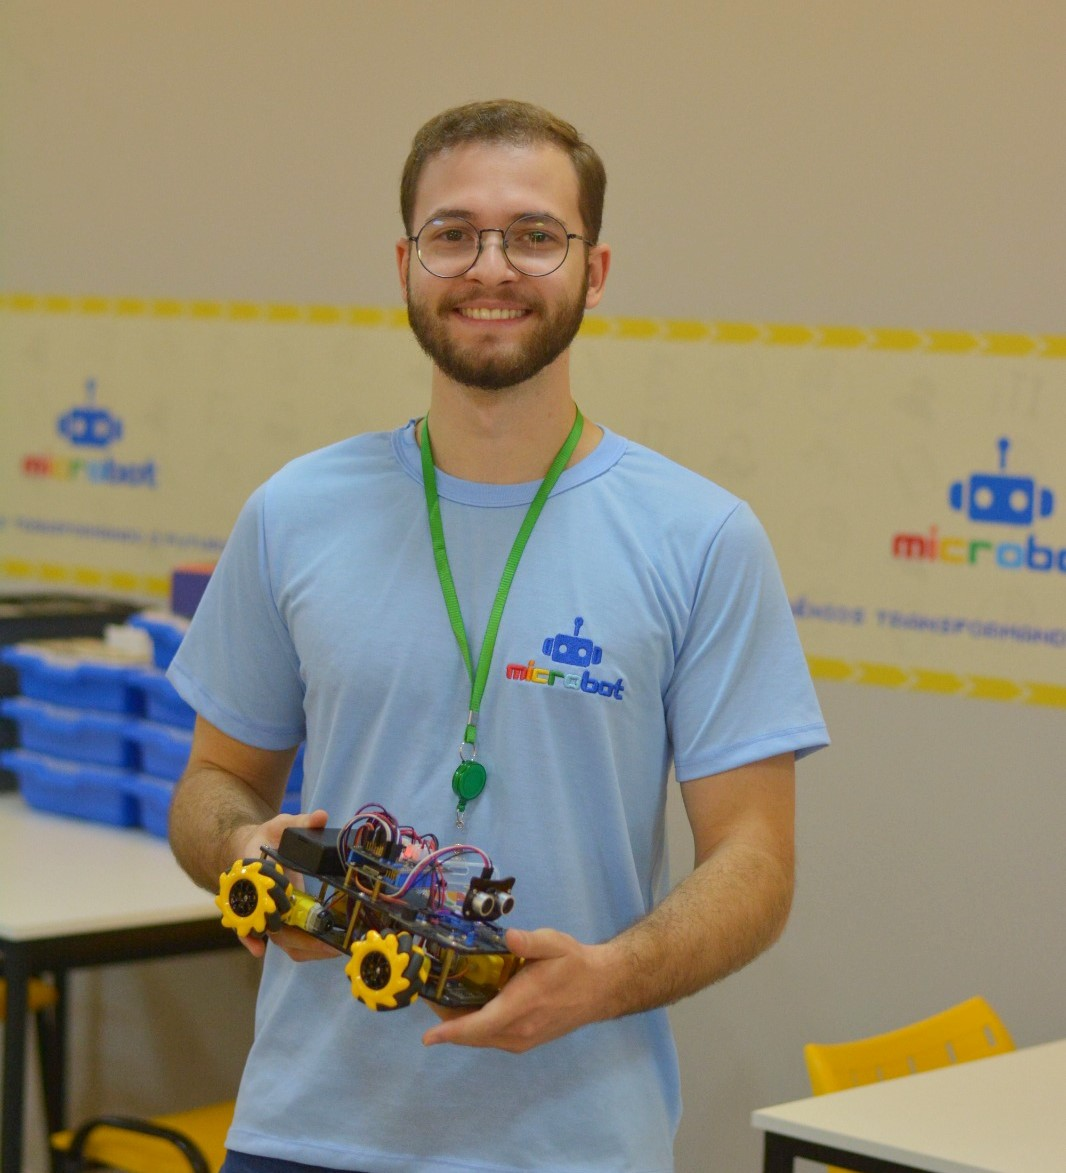
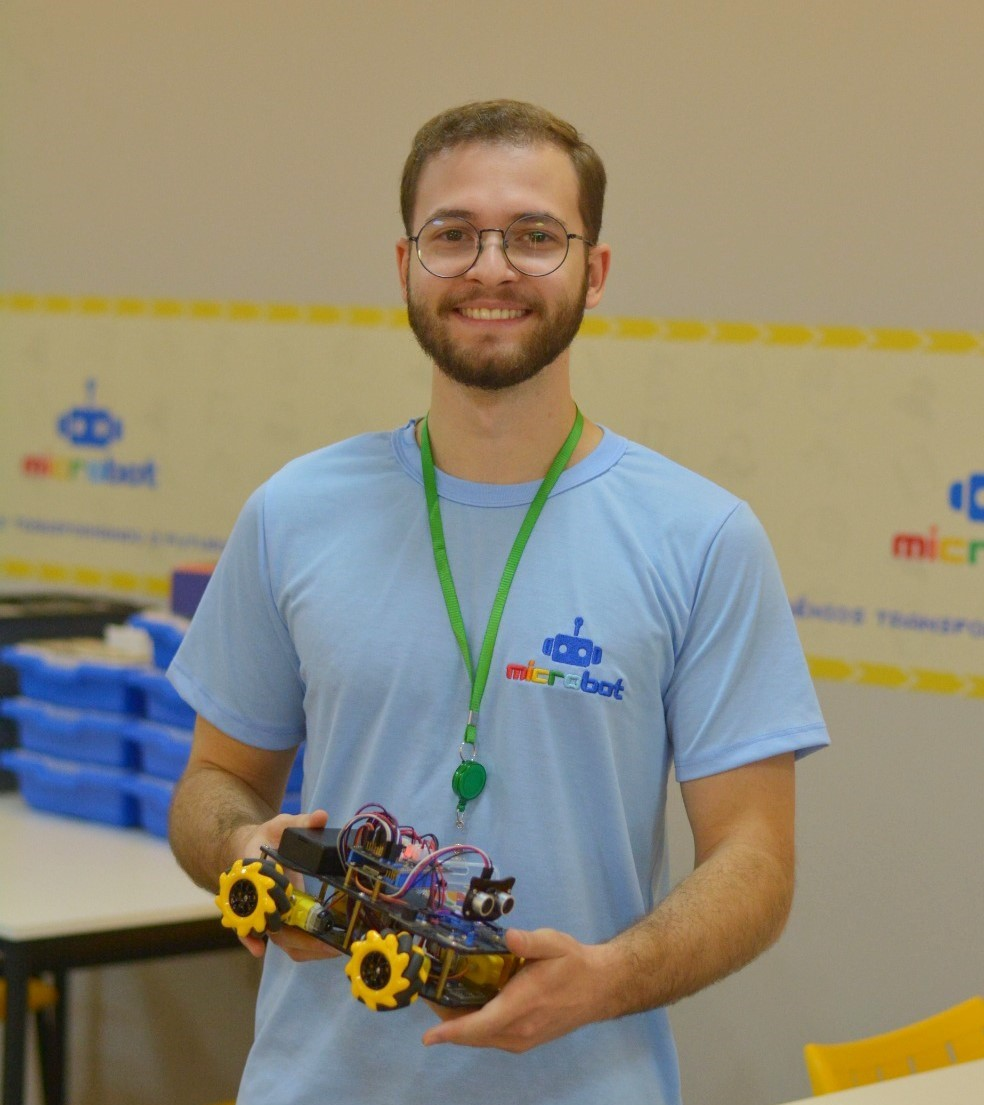
feat: novos estilos adcionados às seções.

diff --git a/src/components/About/About.css b/src/components/About/About.css
@@ -6,87 +6,104 @@
     align-items: center;
     flex-direction: row;
     justify-content: center;
-    gap: 100px;
+    gap: 10%;
+    padding: 0 0 40px 0;
 }
 
 .About .Card-Image{
-    width: 50%;
+    width: 40%;
     height: 100%;
     display: flex;
     justify-content: center;
 }
 
 .About img{
-    width: 70%;
+    width: 90%;
     border-radius: 50%;
     box-shadow: 10px 10px 10px rgba(0, 0, 0, 0.2);
     /* border: 4px solid #DEAB3C; */
+    aspect-ratio: 1/1;
+    object-fit: cover
 }
 
 .About .Card-Content{
-    width: 50%;
-    max-width: 50%;
+    width: 40%;
+    max-width: 40%;
     display: flex;
     flex-direction: column;
     align-items: center;
+    margin-top: 50px;
+    
 }
 
+
+
 .About .Card-Content .Card-Header h1{
-    font-size: 3rem;
+    font-size: 3.5rem;
     font-weight: bold;
-    text-align: center;
     color: #37323E;
     border-bottom: 4px solid #DEAB3C;
 }
 
 
 .About .Card-Content .Sobre{
-    width: 35vw;
+    width: 100%;
     display: flex;
     flex-direction: column;
-    background-color: #ffffffc7;
     position: relative;
-    box-shadow: 0 0 10px rgba(0, 0, 0, 0.1);
 }
 
+.About .Card-Content .Sobre::before{
+    content: "";
+    background-color: #37323E;
+    width: 4px;
+    height: 100%;
+    position: absolute;
+    left: -15px;
+}
 
 .About .Sobre p{
     margin: 0;
-    padding: 10px 20px;
+   
     font-size: 1.2rem;
     text-align: justify;
-    text-indent: 30px;
+    white-space: pre-line;
 }
 
 .About .Experiencias{
     width: 100%;
     display: flex;
-    align-items: center;
     flex-direction: column;
 }
+
 .About .Experiencias h3{
-    font-size: 2rem;
+    font-size: 2.5rem;
     color: #37323E;
+    text-align: center;
     padding: 10px 00;
 }
 
-
 .About .Experiencias .Exp-Cards{
+    width: 30%;
     display: flex;
     gap: 10%;
     position: relative;
+    flex-direction: column;
 }
 
 .About .Experiencias .Exp-Cards::before{
     content: "";
     background-color: #37323E;
-    width: 3px;
+    width: 4px;
     height: 100%;
     position: absolute;
+    left: -15px;
+    top: 1px;
 }
 
 .About .Experiencias .Exp-Content{
     width: 100%;
+    margin-bottom: 10px;
     display: flex;
     flex-direction: column;
     gap: 20px;
@@ -97,48 +114,99 @@
     margin: 0; 
 }
 
+.About .Experiencias .Exp-Content p{
+    font-size: 1.2rem;
+    color: #37323E;
+}
+
 .About .Experiencias .Exp-Content h4{
-    font-size: 1.5rem;
+    font-size: 1.8rem;
     color: #37323E;
 }
 
 .About .Experiencias .Exp-Content::before{
+    content: "";
     background-color: #37323E;
-    width: 4px;
-    height: 100%;
+    width: 14px;
+    min-width: 14px;
+    min-height: 14px;
+    height: 14px;
+    border-radius: 50%;
+    position: absolute;
+    top: 0;
+    left: -20px;
 }
 
-.About .Formacao .For-Cards{
+.About .Formacao{
+    width: 100%;
     display: flex;
-    gap: 10%;
+    flex-direction: column;
 }
 
 .About .Formacao .For-Header{
     display: flex;
     justify-content: center;
-    
 }
-.About .Formacao h3{
-    font-size: 2rem;
+
+.About .Formacao .For-Header h3{
+    font-size: 2.5rem;
     color: #37323E;
     padding: 10px 00;
 
 }
 
+.About .Formacao .For-Cards{
+    display: flex;
+    gap: 10%;
+    position: relative;
+    flex-direction: column;
+}
+
+.About .Formacao .For-Cards::before{
+    content: "";
+    background-color: #37323E;
+    width: 4px;
+    height: 100%;
+    position: absolute;
+    left: -15px;
+    top: 1px;
+
+}
+
 .About .Formacao .For-Content{
-    width: 100%;
+    width: 90%;
     display: flex;
     gap: 20px;
     flex-direction: column;
-    padding: 10px;
-    background-color: #ffffffc7;
-    border-radius: 10px;
-    box-shadow: 0 0 10px rgba(0, 0, 0, 0.2)
+    position: relative;
+    margin-bottom: 10px;
+}
+
+.About .Formacao .For-Content::before{
+    content: "";
+    background-color: #37323E;
+    width: 14px;
+    min-width: 14px;
+    min-height: 14px;
+    height: 14px;
+    border-radius: 50%;
+    position: absolute;
+    top: 0;
+    left: -20px;
+}
+
+.About .Formacao .For-Content p, .About .Formacao .For-Content h4{
+    margin: 0;
+}
+
+.About .Formacao .For-Content h4{
+    font-size: 1.8rem;
+    color: #37323E;
 }
 
 .About .Formacao .For-Content p{
-    margin: 0;
-    text-indent: 10px;
+    font-size: 1.2rem;
+    color: #37323E;
 }
 
 
@@ -149,12 +217,25 @@
         padding: 10px;
     }
     .About .Card-Image{
-        margin-top: 90px;
+        margin-bottom: 50px;
+        margin-top: 40px;
         width: 80%;
         height: 100%;
     }
-    .Exp-Content {
-        min-width: 100%;
+    .About .Card-Content{
+        width: 100%;
+        max-width: 100%;
     }
+    .About .Card-Content .Sobre{
+        width: 90%;
+    }
+    .Experiencias, .Formacao{
+        align-items: center;
+    }
+
+    .About .Formacao .For-Cards{
+        width: 90%;
+    }
+  
     
 }

diff --git a/src/components/About/About.jsx b/src/components/About/About.jsx
@@ -5,9 +5,6 @@ import { profileData } from '../../data/profile.js';
 function About() {
     return(
         <div className="About" id="About">
-            <div className="Card-Image">
-                <img src={myImage} alt="Minha imagem segurando um robozinho." />
-            </div>
             <div className="Card-Content">
                 <div className="Card-Header">
                      <h1>Quem sou eu</h1>
@@ -22,7 +19,7 @@ function About() {
                     <div className="Exp-Cards">
                         {profileData.experiencia.content.map((exp, index)=>{
                                 return(
-                                    <div className='Exp-Content'  key={index}>
+                                    <div className="Exp-Content"  key={index}>
                                         <h4>{exp.empresa}</h4>
                                         <p>{exp.cargo}</p>
                                         <p>{exp.periodo}</p>
@@ -43,9 +40,9 @@ function About() {
                         {profileData.formacao.content.map((item, index)=>{
                                     return(
                                         <div className='For-Content'  key={index}>
-                                            <p><b>Instituição: </b>{item.intituicao}</p>
-                                            <p><b>Curso: </b>{item.curso}</p>
-                                            <p><b>Período: </b>{item.periodo}</p>
+                                            <h4>{item.curso}</h4>
+                                            <p>{item.intituicao}</p>
+                                            <p>{item.periodo}</p>
                                         </div>
                                     );
                                 }
@@ -54,7 +51,9 @@ function About() {
                     </div>
                 </div>
             </div>
-            
+            <div className="Card-Image">
+                <img src={myImage} alt="Minha imagem segurando um robozinho." />
+            </div>
         </div>
     );
 

diff --git a/src/data/profile.js b/src/data/profile.js
@@ -4,7 +4,7 @@ export const profileData = {
     descricao: "Desenvolvendo aplicações web modernas com foco em usuabilidade e eficiência.",
     sobre: {
         title: "Sobre mim",
-        content: "Sou um desenvolvedor de sistemas que gosta do desafio de criar soluções inovadoras e está em busca de aprimorar minhas habilidades e aprender mais sobre o universo da programação. Tenho conhecimento em diversas ferramentas de programação desde desenvolvimento web, com JavaScript, HTML e CSS, até banco de dados com MongoDB e MySQL."
+        content: "\tOlá, meu nome é Verner Rafael. \n\nSou um desenvolvedor que gosta do desafio de escrever código e criar projetos de software.\n\nEstou sempre em busca de aprimorar minhas habilidades e aprender mais sobre o universo da programação. Atualmente tenho como foco o estudos em tecnologias web, como React e Node.js.\n\nAlém disso, tenho interesse em outras áreas da tecnologia, como inteligência artificial, redes de computadores, desenvolvimento de jogos e cybersegurança.\n\nAqui estáo outras ferramentas que também utilizo para desenvolver projetos: \n\n"
     },
     experiencia:{
         title: "Experiência",

diff --git a/src/components/Hero/Hero.css b/src/components/Hero/Hero.css
@@ -30,18 +30,16 @@
 }
 
 .Hero .Content a{
-    padding: 10px 20px;
+    padding: 10px 10px;
     font-size: 1.2rem;
-    background-color: #DEAB3C;
     color: #EBEAEB;
-    border: none;
-    border-radius: 50px; 
+    border-bottom: 3px solid #DEAB3C;
     text-decoration: none;
     transition: background-color 0.4s ease;
 }
 
 .Hero .Content a:hover {
-    background-color: #DE9E36;
+    background-color: #DEAB3C;
     transition: background-color 0.4s ease;
 }
 
@@ -71,7 +69,7 @@
 
 @media (max-width: 1080px){
     .Hero h1{
-        font-size: 2.5rem;
+        font-size: 5rem;
     }
     .Hero h3{
         font-size: 1.5rem;

diff --git a/src/components/Navbar/Navbar.css b/src/components/Navbar/Navbar.css
@@ -3,6 +3,7 @@
     display: flex;
     align-items: center;
     width: 100%;
+    max-width: 100%;
     height: 55px;
     background-color:#37323E;
     position: fixed;
@@ -13,7 +14,6 @@
     margin: 0 auto;
     gap: 20px;
     display: flex;
-    border-radius: 50px;
     padding: 10px 20px;
 }
 
@@ -31,3 +31,11 @@
     transition: background-color 0.4s ease;
 }
 
+@media (max-width: 1080px){
+    .Links{
+        padding: 0;
+    }
+    .Links a{
+        padding: 10px 15px;
+    }
+}

diff --git a/src/components/Footer/Footer.css b/src/components/Footer/Footer.css
@@ -42,3 +42,9 @@ footer a{
     color: #ffffffc7;
 }
 
+@media (max-width: 1080px){
+  footer .Info-Row{
+    gap: 20px;
+    flex-direction: column;
+  }
+}
